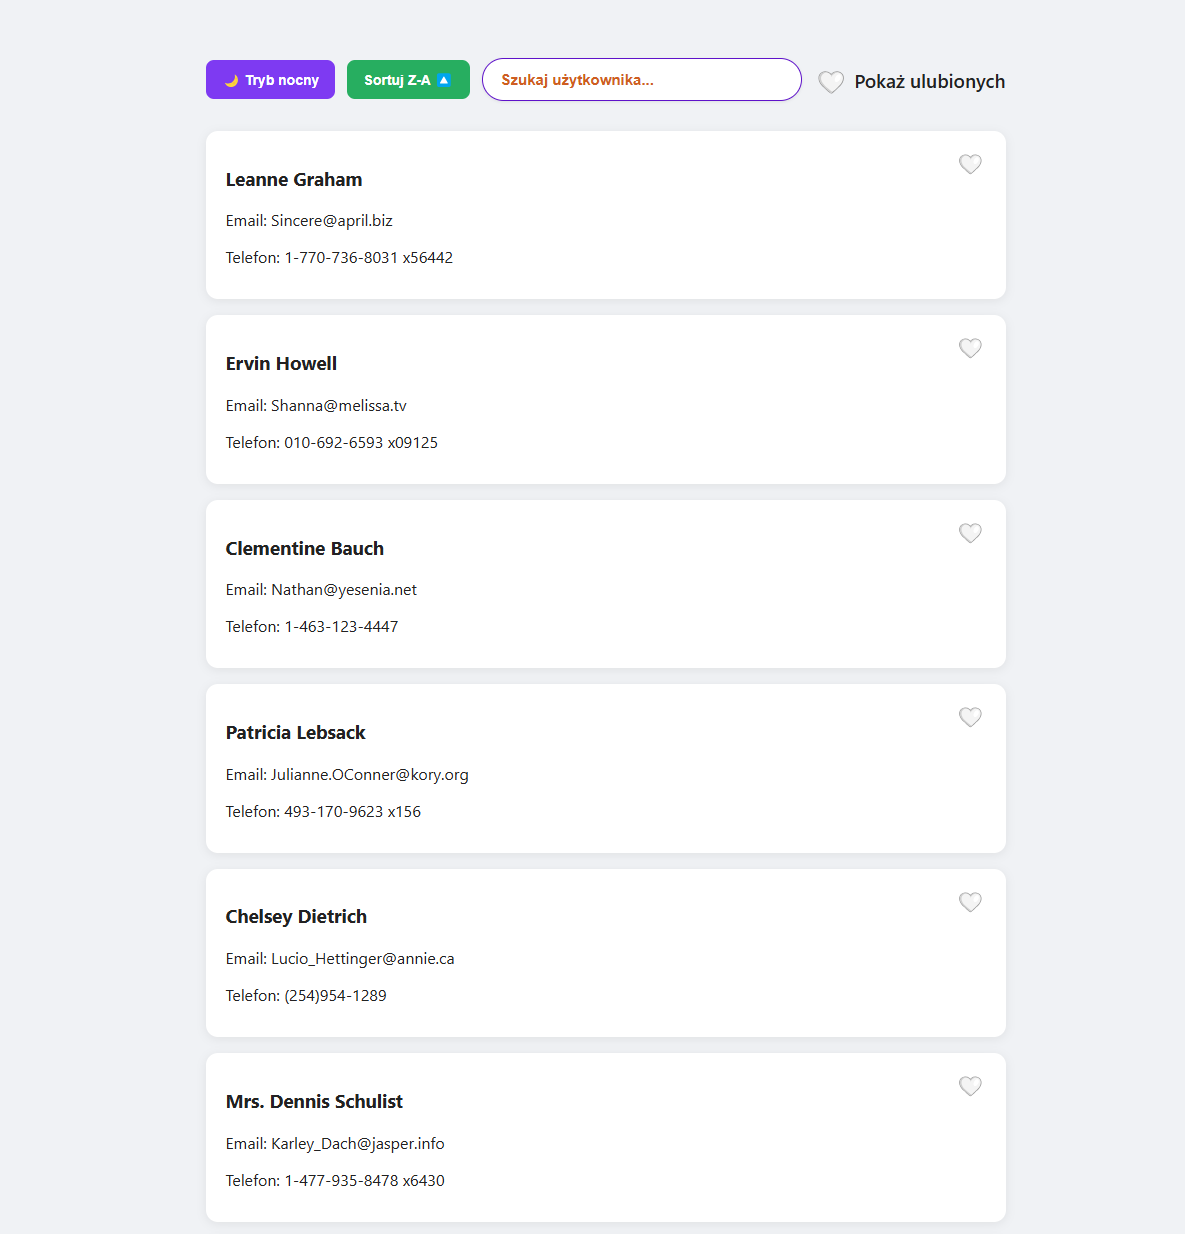
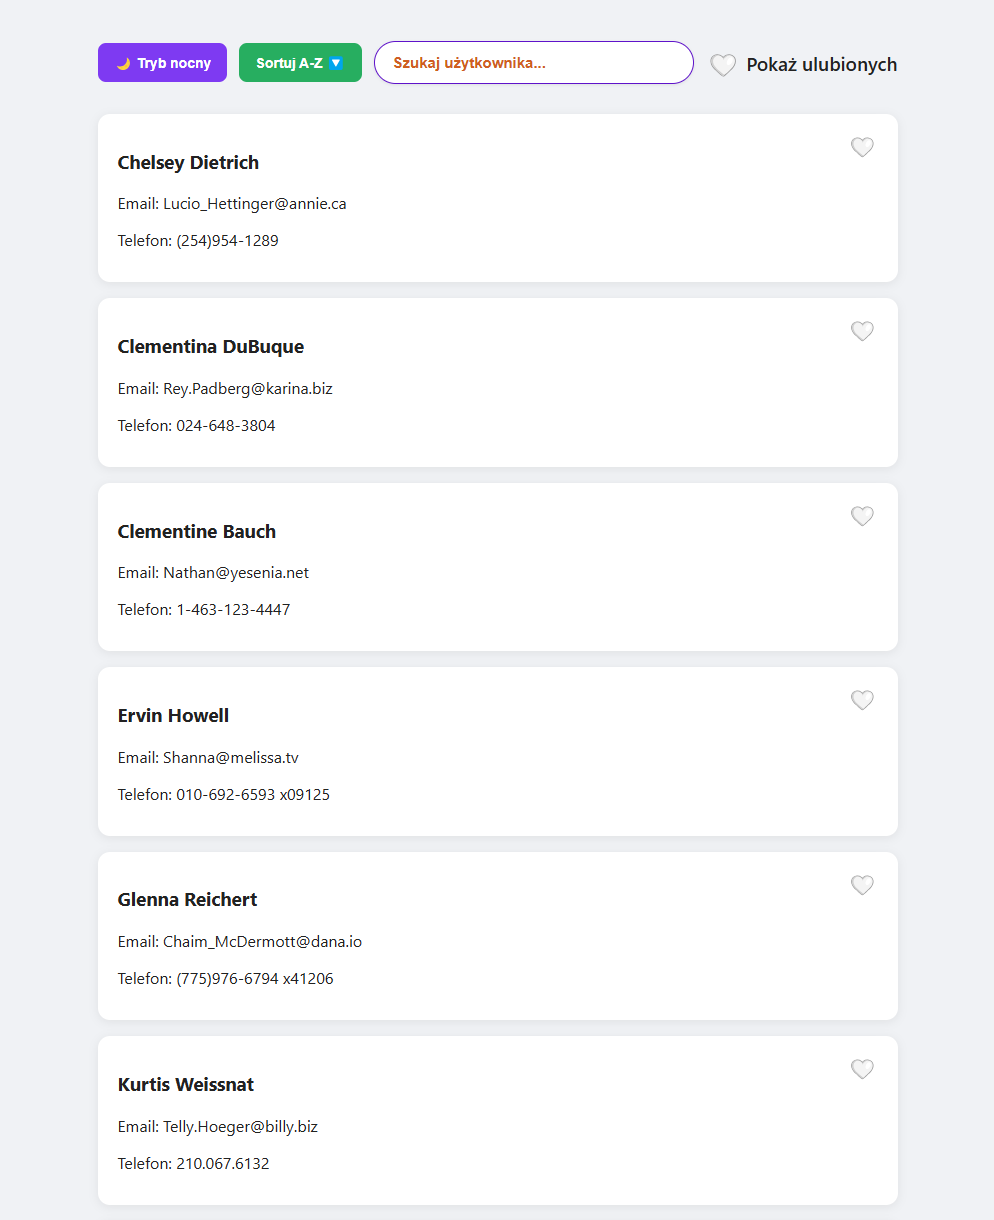
Dodanie opisu do README

diff --git a/src/app.js b/src/app.js
@@ -75,14 +75,21 @@ export async function initApp(container) {
   function render() {
     let filtered = users
       .filter(user => user.name.toLowerCase().includes(searchQuery.toLowerCase()));
-
+  
     if (showFavoritesOnly) {
       filtered = filtered.filter(user => favorites.includes(user.id));
     }
-
+  
+    filtered.sort((a, b) =>
+      sortAsc
+        ? a.name.localeCompare(b.name)
+        : b.name.localeCompare(a.name)
+    );
+  
     listContainer.innerHTML = '';
     listContainer.appendChild(UserList(filtered, favorites, toggleFavorite));
   }
+  
 
   function toggleFavorite(id) {
     if (favorites.includes(id)) {
